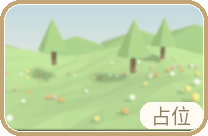
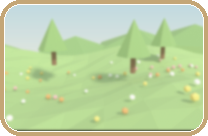
Fold small arrival turns into a held stop pose, and clear the round-6 reward clutter.
A turn under 45 degrees had no turn clip, so the island spin played on idle for about 1.5s. Hold the settled stop pose for that fold. The result chest no longer sits on its button, region rewards are not a chest, and the journey thumbnails no longer stamp 占位.

Changed region(s): [[0.6635, 0.7353, 0.9808, 0.9706]]

diff --git a/creator-build-project/assets/scripts/WorldIntegrationBoot.ts b/creator-build-project/assets/scripts/WorldIntegrationBoot.ts
@@ -42,7 +42,7 @@ class FlowReferenceStandin implements CharacterAdapter {
  private motionConfig:MotionConfig=defaultMotionConfig();private pendingIdle=false;private pendingFor=0;private yaw=new YawFollower();private yawRad=0;
  private windSource:(()=>number|null)|null=null;private wind=0;private idleFor=0;private nextGust=-1;
  private restAhead:((path:readonly (readonly number[])[])=>number|null)|null=null;private lastFoot:Body|null=null;private lastFootEmit:{bone:string;clip:string;t:number}|null=null;private footDeduped=0;private motionT=0;
- private lastSpeed=0;private stopRoot:{clip:string;end:[number,number,number];yaw:number;S:number;scale:number;forward:Array<[number,number]>;lateral:Array<[number,number]>|null}|null=null;private lastPlan:any=null;
+ private lastSpeed=0;private stopRoot:{clip:string;end:[number,number,number];yaw:number;S:number;scale:number;forward:Array<[number,number]>;lateral:Array<[number,number]>|null}|null=null;private stopHold=0;private lastPlan:any=null;
  private morphs:MorphDriver[]=[];private morphW:{[target:string]:number}={};private footListeners:Array<(e:FootEvent)=>void>=[];private apronListeners:Array<(strength:'full'|'soft',durationSec:number)=>void>=[];
  constructor(private node:Node){}
  private motionEvents:any[]=[];
@@ -73,7 +73,9 @@ class FlowReferenceStandin implements CharacterAdapter {
   this.playNamed('sit_hold',true,0);}
  private requireClip(name:string){const anim=this.anim;const clip=anim?.clips.find(c=>c?.name===name);if(!anim||!clip)throw Error('Character clip missing: '+name);if(!Number.isFinite(clip.duration)||clip.duration<=0)throw Error('Invalid character clip duration: '+name);return clip.duration;}
  /** The controller is the sole clock (Creator 3.8.8: paused/unplayed states, public setTime/sample). keep: same clip stays at its phase. */
- private playNamed(name:string,loop:boolean,fade=-1,keep=false,time=0){if(this.disposed||!this.clock)return;const d=this.requireClip(name);
+ private playNamed(name:string,loop:boolean,fade=-1,keep=false,time=0){if(this.disposed||!this.clock)return;
+  if(this.stopHold>0&&this.clock.base&&name!==this.clock.base.clip){this.stopHold=0;this.clock.releaseHold();}
+  const d=this.requireClip(name);
   if(this.clock.play(name,loop,{fade,keep,time}))this.logEvent({clip:name,duration:d,fade:fade<0?CROSSFADE_S:fade});this.render();return d;}
  private render(){if(!this.rig||!this.clock)return;const plan=this.clock.plan();this.rig.apply(plan);this.applyMorph(plan);}
  /** After the pose write: same crossfade / layer weights as the pose (CharacterMotion.morphWeights), setWeight only on change. */
@@ -111,7 +113,18 @@ class FlowReferenceStandin implements CharacterAdapter {
   *  stop clip -> idle. Runs after WALK_JOIN_GRACE_S with nothing queued, or right away when a turn follows (perform). */
  private settleFromWalk(){const c=this.clock!;this.lastSpeed=0;const tail=stopTail(this.rig!,c.cfg,c.planted());this.stopRoot=null;
   if(!tail){this.playNamed(CLIP_ROLES.idle,true,-1,true);return;}
-  if(tail.time>0)this.logEvent({kind:'stop-unplanned',clip:tail.clip,from:tail.time,plan:this.lastPlan});this.playNamed(tail.clip,false,-1,false,tail.time);}
+  if(tail.time>0)this.logEvent({kind:'stop-unplanned',clip:tail.clip,from:tail.time,plan:this.lastPlan});this.playNamed(tail.clip,false,-1,false,tail.time);
+  const left=c.base?c.base.duration-c.localTime(c.base):0;
+  // CMU stops have no static tail: hold the settled pose so the crossfade and a following small turn have something to fold into.
+  if(left<TURN_FOLD_MIN_S){this.noteTailSettle(tail.clip,tail.time);this.stopHold=TURN_FOLD_MIN_S;c.holdBase();}}
+ /** settle:* of a tail entered at the root-settle frame (CMU: the step is at 1.33 s, the root settles at 1.47 s, so the clock never crosses it). */
+ private noteTailSettle(clip:string,time:number){const m=this.clock?.meta(clip);if(!m)return;
+  for(let i=0;i<m.events.length;i++){const e=m.events[i];if((e.type==='settle'||e.name.indexOf('settle:')===0)&&e.time<=time+1e-3)this.noteSettle({def:e,clip});}}
+ /** Keep the settled stop pose (still the stop clip) for at least TURN_FOLD_MIN_S after the clip's own frames run out. */
+ private beginStopHold(){if(this.stopHold<TURN_FOLD_MIN_S)this.stopHold=TURN_FOLD_MIN_S;this.clock?.holdBase();}
+ private tickStopHold(step:number){if(!(this.stopHold>0)||!this.clock)return;const j=this.job,foldLeft=j&&j.foldS>0?j.foldS-j.elapsed:0;
+  if(foldLeft>this.stopHold)this.stopHold=foldLeft;this.stopHold-=step;if(this.stopHold>1e-4)return;this.stopHold=0;this.clock.releaseHold();
+  if(this.isStopClip(this.clock.base?.clip)){this.stopRoot=null;this.playNamed(CLIP_ROLES.idle,true,-1,true);}}
  private startsWalkStart(cur:string|undefined){return cur!==CLIP_ROLES.walk&&cur!==CLIP_ROLES.walkStart&&cur!==CLIP_ROLES.stopL&&cur!==CLIP_ROLES.stopR&&this.rig!.has(CLIP_ROLES.walkStart);}
  /** Root travel plan for this walk (CharacterMotion.planWalk): walk_start / stop forward curves inside the fixed duration. */
  private planFor(action:any,L:number):WalkPlan {const c=this.clock!,cfg=c.cfg,cur=c.base?.clip,rig=this.rig!;const wm=c.meta(CLIP_ROLES.walk);
@@ -171,13 +184,14 @@ class FlowReferenceStandin implements CharacterAdapter {
   if(ph&&ph.clip===CLIP_ROLES.walkStart){const m=c.meta(CLIP_ROLES.walkStart),d=c.base!.duration,at=m?.handoff?.at??Math.max(0,d-CROSSFADE_S);
    if(ph.time>=at-1e-9){const next=m?.handoff?.next||CLIP_ROLES.walk;this.playNamed(next,true,m?.handoff?.crossfade??-1,false,(m?.handoff?.nextTime??0)+Math.max(0,ph.time-at));if(next===CLIP_ROLES.walk&&j&&j.plan)c.setRate(j.plan.rate);}}
   // a planned stop clip may end on the walk's last frame (CMU stops: root travel until the clip end) - idle anyway
-  else if(r.ended&&(!this.job||this.job.foldS>0||this.isStopClip(r.ended))&&r.ended!==CLIP_ROLES.sitDown&&r.ended!==CLIP_ROLES.standUp){const hm=c.meta(r.ended);if(this.stopRoot&&this.stopRoot.clip===r.ended)this.stopRoot=null;this.playNamed(CLIP_ROLES.idle,true,hm&&hm.handoff&&hm.handoff.crossfade!==undefined?hm.handoff.crossfade:-1,true);}
+  else if(r.ended&&(!this.job||this.job.foldS>0||this.isStopClip(r.ended))&&r.ended!==CLIP_ROLES.sitDown&&r.ended!==CLIP_ROLES.standUp){if(this.isStopClip(r.ended))this.beginStopHold();else{const hm=c.meta(r.ended);if(this.stopRoot&&this.stopRoot.clip===r.ended)this.stopRoot=null;this.playNamed(CLIP_ROLES.idle,true,hm&&hm.handoff&&hm.handoff.crossfade!==undefined?hm.handoff.crossfade:-1,true);}}
   this.idleGustTick(step);
   this.render();
   if(j&&j.elapsed>=j.duration){const kind=j.action.kind;j.off();this.job=null;
    if(kind==='walk'){if(!j.stopEntered){this.pendingIdle=true;this.pendingFor=0;}} // keep the walk pose/phase; resolved next frame unless another walk starts (planned stop: already playing)
    else if(kind==='sit')this.playNamed(CLIP_ROLES.sitHold,true);else if(!(j.foldS>0&&this.isStopClip(c.base?.clip)))this.playNamed(CLIP_ROLES.idle,true,-1,true);
    j.resolve();}
+  this.tickStopHold(step);
  }
  private idleGustTick(step:number){const g=this.motionConfig.idleGust,c=this.clock!;if(!g||this.job||c.base?.clip!==CLIP_ROLES.idle||this.wind>0||c.gust){this.idleFor=0;return;}
   if(this.nextGust<0)this.nextGust=g.minS+Math.random()*Math.max(0,g.maxS-g.minS);this.idleFor+=step;if(this.idleFor>=this.nextGust){this.idleFor=0;this.nextGust=-1;this.apronGust(g.durationS);}}
@@ -205,8 +219,11 @@ class FlowReferenceStandin implements CharacterAdapter {
     // the walk ended without a planned stop: the stop plays before the turn (r5: it was skipped whenever a task followed)
     if(this.pendingIdle){this.pendingIdle=false;this.settleFromWalk();}
     this.lastSpeed=0;const c=this.clock!,ch=chooseTurn(this.rig!,c.cfg,extra.deltaYaw,this.lastFoot);extra.deltaYaw=ch.deltaRad;duration=1.5;
-    // < 45 deg (no turn clip) while a stop clip is still settling: folded into the stop, never turned in place on idle
-    const b=c.base,left=b&&!ch.role&&this.isStopClip(b.clip)?b.duration-c.localTime(b):0;if(left>1e-3)extra.foldS=Math.min(duration,Math.max(TURN_FOLD_MIN_S,left));
+    // < 45 deg (no turn clip): fold into the stop clip. CMU stops end with the root still moving, so the settled pose
+    // is held (stopHold) and the yaw uses that hold — never a 1.5 s turn on idle_breathing_loop.
+    const b=c.base;let left=0;if(b&&!ch.role&&this.isStopClip(b.clip)){const authored=b.duration-c.localTime(b);left=authored>this.stopHold?authored:this.stopHold;
+     if(left<TURN_FOLD_MIN_S){this.stopHold=TURN_FOLD_MIN_S;c.holdBase();left=TURN_FOLD_MIN_S;}}
+    if(left>1e-3)extra.foldS=Math.min(duration,left<TURN_FOLD_MIN_S?TURN_FOLD_MIN_S:left);
     this.logEvent({kind:'turn-choice',clip:ch.role,deg:ch.deltaRad*180/Math.PI,lastFoot:this.lastFoot,reason:extra.foldS?'folded into '+b!.clip+' over '+extra.foldS.toFixed(3)+' s':ch.reason});
     if(ch.role){this.stopRoot=null;this.playNamed(ch.role,false);}else if(!extra.foldS){this.stopRoot=null;this.playNamed(CLIP_ROLES.idle,true,-1,true);}}
    if(!Number.isFinite(duration)||duration<=0)throw Error('Invalid character action duration');}catch(error){return Promise.reject(error);}

diff --git a/creator-build-project/assets/scripts/CharacterMotion.ts b/creator-build-project/assets/scripts/CharacterMotion.ts
@@ -232,7 +232,7 @@ export function jointAngleDeg(a:Float64Array,b:Float64Array,i:number):number {co
 /* ---------------- clip clock: which clips, at what time, with which weights ---------------- */
 export interface ClipInfo {has(name:string):boolean;duration(name:string):number}
 /** rate: distance clips advance rate x ds / nativeSpeed (1 = locked to the ground; != 1 only for the stop-entry stride warp). */
-type Track={clip:string;abs:number;loop:boolean;distance:boolean;nativeSpeed:number;duration:number;endedReported:boolean;rate:number};
+type Track={clip:string;abs:number;loop:boolean;distance:boolean;nativeSpeed:number;duration:number;endedReported:boolean;rate:number;pinned:boolean};
 export type PlanLayer={clip:string;time:number;weight:number;mode:LayerMode;mask:ReadonlyArray<string>;referenceTime:number};
 /** morph: every layer the morph curves read (same clip/time/weight as `layers`, plus a curve-only apron_lift timeline when the
  *  glb has no apron_lift clip yet but anim_meta has its morph curves). */
@@ -263,9 +263,12 @@ export class MotionClock {
     this.cfg={clips,windToFlutter:cfg.windToFlutter,apronLiftThreshold:cfg.apronLiftThreshold,windMask:cfg.windMask,idleGust:cfg.idleGust,source:cfg.source,morphMesh:cfg.morphMesh,morphTargets:cfg.morphTargets,windToMorphFlutter:cfg.windToMorphFlutter,morphMeshes};}
   meta(name:string):ClipMeta|null {return this.cfg.clips[name]||null;}
   private track(name:string,loop:boolean,time:number):Track {const m=this.meta(name),d=this.info.duration(name);const ns=m&&m.nativeSpeed!==undefined?m.nativeSpeed:name===CLIP_ROLES.walk?DEFAULT_NATIVE_SPEED:0;
-    return {clip:name,abs:Math.max(0,time),loop,distance:ns>0,nativeSpeed:ns,duration:d>0?d:1,endedReported:false,rate:1};}
+    return {clip:name,abs:Math.max(0,time),loop,distance:ns>0,nativeSpeed:ns,duration:d>0?d:1,endedReported:false,rate:1,pinned:false};}
   /** Stride warp of the base distance clip (walk_loop, see STOP_WARP_MAX) or clock rate of a time clip (walk_start, START_RATE_MAX). */
   setRate(rate:number){if(this.base)this.base.rate=rate>0&&isFinite(rate)?rate:1;}
+  /** Freeze the base clip on its current frame (settled stop pose). A later tick does not advance it or fire ended again. */
+  holdBase(){const b=this.base;if(!b||b.loop)return;if(b.abs>b.duration)b.abs=b.duration;b.pinned=true;b.endedReported=true;}
+  releaseHold(){if(this.base)this.base.pinned=false;}
   /** keep=true: same clip already base -> nothing changes (phase continuity). fade<0: use crossfadeS. Returns true when switched. */
   play(name:string,loop:boolean,opts?:{fade?:number;time?:number;keep?:boolean}):boolean {const o=opts||{};
     if(o.keep!==false&&this.base&&this.base.clip===name&&this.base.loop===loop)return false;
@@ -276,7 +279,7 @@ export class MotionClock {
   /** ds: metres travelled this frame along the walk (null = not walking -> distance clips hold their phase). */
   /** snapAbs: set the base clock to exactly this absolute time (stop entry lands ON the heel strike; events crossed inclusive). */
   tick(dt:number,ds:number|null,wind:number,snapAbs?:number):TickResult {const res:TickResult={foot:[],ended:null,apronLift:null};const b=this.base;
-    if(b){const prev=b.abs;if(snapAbs!==undefined&&snapAbs>=prev)b.abs=snapAbs;else b.abs+=b.distance?(ds!==null&&ds>0?ds/b.nativeSpeed*b.rate:0):dt*b.rate;const m=this.meta(b.clip);
+    if(b){const prev=b.abs;if(!b.pinned){if(snapAbs!==undefined&&snapAbs>=prev)b.abs=snapAbs;else b.abs+=b.distance?(ds!==null&&ds>0?ds/b.nativeSpeed*b.rate:0):dt*b.rate;}const m=this.meta(b.clip);
       if(m&&m.events.length){const ev=crossedEvents(m.events,prev,b.abs,b.duration,b.loop);for(let i=0;i<ev.length;i++)res.foot.push({def:ev[i].def,cycle:ev[i].cycle,abs:ev[i].abs,clip:b.clip,duration:b.duration});}
       if(!b.loop&&b.abs>=b.duration&&!b.endedReported){b.endedReported=true;res.ended=b.clip;}}
     if(this.out){const o=this.out;o.abs+=o.distance?(ds!==null&&ds>0?ds/o.nativeSpeed*o.rate:0):dt*o.rate;this.fadeT+=dt;if(this.fadeT>=this.fadeS)this.out=null;}
@@ -313,17 +316,18 @@ export class MotionClock {
 /** Stop-clip role for the planted body foot (null when that clip does not exist). */
 export function stopRole(info:ClipInfo,planted:Body|null):string|null {if(!planted)return null;const r=planted==='L'?CLIP_ROLES.stopL:CLIP_ROLES.stopR;return info.has(r)?r:null;}
 /** Unplanned stop (the walk was not known to end at rest): a stop clip with a forward_m curve is entered at the end of its
- *  root travel (curveSettleTime), so the root does not move: no slide, no overshoot past the path end. The variant is the
- *  one whose planted body foot at that time is the walk's planted foot (the crossfade moves the free foot only).
- *  In-place stop clips (no forward curve): stopRole, from frame 0 (old behaviour). null = no stop clip -> idle.
- *  A tail shorter than CROSSFADE_S (root still travelling until the last frames, e.g. the CMU mocap stops) is not used:
- *  the clip would end inside the crossfade and hard-cut to idle, so the walk crossfades to idle instead. */
+ *  root travel (curveSettleTime), so the root does not move: no slide, no overshoot past the path end. Prefer the variant
+ *  whose planted body foot at that frame is the walk's planted foot. CMU stops plant the other foot before the root
+ *  settles and keep travelling until the last frame (tail shorter than CROSSFADE_S): still return stopRole at the settle
+ *  frame. The driver holds that pose for TURN_FOLD_MIN_S, so the crossfade has a stable target and a < 45 deg turn can
+ *  fold into the hold instead of spinning on idle. In-place stop clips (no forward curve): stopRole, from frame 0. */
 export function stopTail(info:ClipInfo,cfg:MotionConfig,planted:Body|null):{clip:string;time:number}|null {if(!planted)return null;
-  const names=[CLIP_ROLES.stopL,CLIP_ROLES.stopR];
+  const names=[CLIP_ROLES.stopL,CLIP_ROLES.stopR];let fallback:{clip:string;time:number}|null=null;
   for(let i=0;i<names.length;i++){const n=names[i];if(!info.has(n))continue;const m=cfg.clips[n],f=m&&m.root&&m.root.forward;
     if(!f){if(n===stopRole(info,planted))return {clip:n,time:0};continue;}
-    const d=info.duration(n),t=Math.min(curveSettleTime(f),d);if(d-t<CROSSFADE_S)continue;if(plantedBody(m!.events,t)===planted)return {clip:n,time:t};}
-  return null;}
+    const d=info.duration(n),t=Math.min(curveSettleTime(f),d);if(plantedBody(m!.events,t)===planted)return {clip:n,time:t};
+    if(n===stopRole(info,planted))fallback={clip:n,time:t};}
+  return fallback;}
 /** In-place turn role: |delta| >= 135 deg -> walk_turn_180; >= 45 deg -> walk_turn_90_body{L|R} by turn side (positive yaw =
  *  turning to her left -> bodyL, the inside foot pivots); otherwise / missing clip -> null (idle + controller yaw). */
 export function turnRole(info:ClipInfo,deltaRad:number):string|null {const a=Math.abs(deltaRad)*180/Math.PI;

diff --git a/creator-build-project/assets/scripts/ui/BoardPanels.ts b/creator-build-project/assets/scripts/ui/BoardPanels.ts
@@ -50,7 +50,8 @@ export interface ResultModel {
 }
 const TITLES: Record<ResultKind, [string, string]> = { win: ['过关啦', 'popup/title_4'], lose: ['差一点点', 'popup/title_5'], unsaved: ['还没存上', 'r2/title_unsaved'], readonly: ['旅途回顾', 'r2/title_review'] };
 export function openResult(stack: PopupStack, m: ResultModel, legacy: ToolArtSource | null): PopupPanel {
-  const rewardsH = m.kind === 'win' && m.rewards.length ? 200 : 0, nextH = m.kind === 'win' && !m.next ? -120 : 0;
+  const wideReward = m.kind === 'win' && m.rewards.some(r => r.label.length >= 6);
+  const rewardsH = m.kind === 'win' && m.rewards.length ? (wideReward ? 256 : 200) : 0, nextH = m.kind === 'win' && !m.next ? -120 : 0;
   const ph = m.kind === 'win' ? 808 + rewardsH + nextH : m.kind === 'lose' ? (m.chestHint ? 920 : 808) - (m.replay ? 0 : 120) : m.kind === 'unsaved' ? (m.chestHint ? 880 : 768) : 680;
   const p = stack.open({ name: 'ResultPanel', height: ph, title: TITLES[m.kind][0], titleArt: TITLES[m.kind][1] });
   const starNodes = stars(p, 184, m.kind === 'lose' ? 0 : m.stars ?? 0);
@@ -64,8 +65,8 @@ export function openResult(stack: PopupStack, m: ResultModel, legacy: ToolArtSou
     p.well(0, 472, 196, 48, [224, 238, 232], 24); p.text('成绩已保存', 0, 472, 28, 'teal', { bold: false });
     y = 600;
     if (m.rewards.length) {
-      const n = m.rewards.length, step = n === 1 ? 0 : n === 2 ? 220 : 200;
-      for (let i = 0; i < n; i++) rewardSlot(p, m.rewards[i], (i - (n - 1) / 2) * step, y, legacy);
+      const n = m.rewards.length, step = n === 1 ? 0 : n === 2 ? (wideReward ? 280 : 220) : 200;
+      for (let i = 0; i < n; i++) rewardSlot(p, m.rewards[i], (i - (n - 1) / 2) * step, y, legacy, wideReward);
       y += rewardsH;
     }
     if (m.next) { p.button('primary', '下一关', 0, y - 24, 480, 104, m.next, { fontSize: 36, name: 'Next' }); p.button('secondary', '回小岛', 0, y + 96, 320, 88, m.home, { icon: 'popup/icon_home', fontSize: 30, name: 'Home', sound: 'back' }); }
@@ -96,12 +97,13 @@ function chestLine(p: PopupPanel, y: number, text: string) {
   const s = p.sprite('popup/chest_closed', -150, y, 144, undefined, 'half'); s.grayscale = true; p.tint.setBase(s, [255, 255, 255], 153);
   p.text(text, -60, y, 28, 'brown2', { align: 'left', width: 320, bold: false });
 }
-function rewardSlot(p: PopupPanel, r: ResultReward, x: number, y: number, legacy: ToolArtSource | null) {
-  if (r.iconKind === 'tool' && r.tool) toolArt(p, r.tool, x, y - 20, 120, legacy);
-  else { const s = p.sprite(r.icon, x, y - 20, r.iconKind === 'seal' ? undefined : 150, r.iconKind === 'seal' ? 112 : undefined, r.iconKind === 'chest' ? 'half' : 'ui'); if (r.state === 'locked') s.grayscale = true; }
-  if (r.state === 'claimed') { p.sprite('popup/stamp_claimed', x + 40, y - 40, 112, 112).node.setRotationFromEuler(0, 0, 12); p.text(r.label, x, y + 76, 24, 'brown2', { bold: false, width: 200 }); }
-  else if (r.state === 'ready' && r.claim) p.button('secondary', r.label, x, y + 76, 176, 64, r.claim, { fontSize: 26, name: 'Claim-' + r.id });
-  else p.text(r.label, x, y + 76, 24, 'grey', { bold: false, width: 200 });
+function rewardSlot(p: PopupPanel, r: ResultReward, x: number, y: number, legacy: ToolArtSource | null, wide = false) {
+  if (r.iconKind === 'tool' && r.tool) toolArt(p, r.tool, x, y - 36, 120, legacy);
+  else { const s = p.sprite(r.icon, x, y - 36, r.iconKind === 'seal' ? undefined : 150, r.iconKind === 'seal' ? 112 : undefined, r.iconKind === 'chest' ? 'half' : 'ui'); if (r.state === 'locked') s.grayscale = true; }
+  const by = y + 112, bw = wide && r.label.length >= 6 ? 248 : 176;
+  if (r.state === 'claimed') { p.sprite('popup/stamp_claimed', x + 40, y - 56, 112, 112).node.setRotationFromEuler(0, 0, 12); p.text(r.label, x, by, 24, 'brown2', { bold: false, width: bw }); }
+  else if (r.state === 'ready' && r.claim) p.button('secondary', r.label, x, by, bw, 64, r.claim, { fontSize: r.label.length >= 6 ? 24 : 26, name: 'Claim-' + r.id });
+  else p.text(r.label, x, by, 24, 'grey', { bold: false, width: bw });
 }
 /** Three stars, middle one larger; empty stars dimmed (alpha 0.75). Chest and stars take the half night tint. */
 function stars(p: PopupPanel, cy: number, filled: number): Node[] {

diff --git a/creator-build-project/assets/scripts/ManagedMobileBoardUI.ts b/creator-build-project/assets/scripts/ManagedMobileBoardUI.ts
@@ -523,7 +523,9 @@ export class ManagedMobileBoardUI extends Component {
     if (memento) { const r = a?.region || 'tide'; items.push({ kind: 'seal', count: 0, label: ({ tide: '潮汐', meadow: '草甸', sky: '天空城' } as any)[r] + '印记', seal: 'popup/reward_seal_' + r }); }
     if (!items.length) items.push({ kind: 'seal', count: 0, label: '一份海风的礼物', seal: 'popup/star_full' });
     const gained = items.map(i => i.kind);
-    openReward(this.popups, items, this.toolArt, { chest: chest || !memento, description: memento ? '地区印记收进旅程册了。' : '海风吹开了宝箱，收进行囊吧。', done: () => { for (const k of gained) if (INTRO_TEXT[k] && !hasSeenTool(SEEN_ID[k] || k) && this.introQueue.indexOf(k) < 0) this.introQueue.push(k); this.flushIntro(); } });
+    const behind = this.popups.find('ResultPanel'); if (behind) behind.root.active = false;
+    const desc = memento ? '地区印记收进旅程册了。' : region && !chest ? '收进旅人的行囊了。' : '海风吹开了宝箱，收进行囊吧。';
+    openReward(this.popups, items, this.toolArt, { chest: !!chest, description: desc, done: () => { if (behind && behind.alive) behind.root.active = true; for (const k of gained) if (INTRO_TEXT[k] && !hasSeenTool(SEEN_ID[k] || k) && this.introQueue.indexOf(k) < 0) this.introQueue.push(k); this.flushIntro(); } });
   }
   private flushIntro() { if (!this.introQueue.length || this.modalOpen()) return; const kind = this.introQueue.shift()!; if (!hasSeenTool(SEEN_ID[kind] || kind)) openToolIntro(this.popups, kind, () => this.flushIntro()); else this.flushIntro(); }
   onDestroy() {

diff --git a/creator-build-project/assets/scripts/audio/AudioBridge.ts b/creator-build-project/assets/scripts/audio/AudioBridge.ts
@@ -80,8 +80,11 @@ export class AudioBridge extends Component {
     // 3) one-time rewards: a claim flag flipping false->true while this board is open
     const sig = this.rewardSignature(s);
     if (sig !== null) {
-      if (this.rewardBaseline !== null && sig !== this.rewardBaseline && this.countClaims(sig) > this.countClaims(this.rewardBaseline))
-        audio.onClaimResult({ ok: true, duplicate: false });
+      if (this.rewardBaseline !== null && sig !== this.rewardBaseline && this.countClaims(sig) > this.countClaims(this.rewardBaseline)) {
+        const prev = this.rewardBaseline.split('|'), next = sig.split('|');
+        // Region-tool claims are not a chest. Chest opens and mementos still use sfx_chest_open.
+        if (prev[0] !== next[0] || prev[2] !== next[2] || prev[3] !== next[3]) audio.onClaimResult({ ok: true, duplicate: false });
+      }
       this.rewardBaseline = sig;
     }
   }

diff --git a/creator-build-project/assets/scripts/ui/CommonPanels.ts b/creator-build-project/assets/scripts/ui/CommonPanels.ts
@@ -191,7 +191,7 @@ export function openReward(stack: PopupStack, items: RewardItem[], legacy: ToolA
     chest.node.active = false;
     void chest.load().then(ok => { if (!ok || !chest || !isValid(chest.node, true)) return; chest.node.active = true; if (fallback && isValid(fallback.node, true)) fallback.node.active = false; chest.open(!reducedMotion()); });
   }
-  const n = Math.min(3, items.length), xs = n === 1 ? [0] : n === 2 ? [-110, 110] : [-180, 0, 180], ys = n === 3 ? [118, 84, 118] : [100, 100];
+  const n = Math.min(3, items.length), xs = n === 1 ? [0] : n === 2 ? [-110, 110] : [-180, 0, 180], ys = n === 3 ? [220, 186, 220] : [200, 200];
   const itemNodes: Node[] = [];
   for (let i = 0; i < n; i++) {
     const it = items[i], holder = uiNode('Gain-' + it.kind, p.body, 140, 140); itemNodes.push(holder);

diff --git a/art-src/board-ui/c-popups/src/round2/compose2.py b/art-src/board-ui/c-popups/src/round2/compose2.py
@@ -130,9 +130,7 @@ def region_window(rid,w,h,lock=False,placeholder=False):
     im=im.convert('RGBA'); m=Image.new('L',(w,h),0); ImageDraw.Draw(m).rounded_rectangle((0,0,w-1,h-1),radius=16,fill=255); im.putalpha(m)
     o=Image.new('RGBA',(w+8,h+8),(0,0,0,0)); od=ImageDraw.Draw(o); od.rounded_rectangle((0,0,w+7,h+7),radius=20,fill=(196,166,118,255) if not lock else (198,190,176,255))
     o.alpha_composite(im,(4,4)); od=ImageDraw.Draw(o); od.rounded_rectangle((4,4,w+3,h+3),radius=16,outline=(255,250,236,90),width=1)
-    if placeholder:
-        f=font(20,False); tw=od.textlength('占位',font=f)
-        od.rounded_rectangle((w-tw-20,h-26,w+2,h+0),radius=11,fill=(255,250,238,200)); od.text((w-tw/2-9,h-13),'占位',font=f,fill=(140,124,100),anchor='mm')
+    # placeholder marks the source as stand-in art. Do not stamp 「占位」 on the picture: players see the journey book.
     return o
 CHAPTERS=[('tide','潮汐小径','reward_seal_tide',10,1,False,False),('meadow','花粉草甸','reward_seal_meadow',3,0,False,True),('sky','天空回声','reward_seal_sky',0,0,True,True)]
 def journey():

diff --git a/art-src/board-ui/c-popups/src/round2/compose_lite.py b/art-src/board-ui/c-popups/src/round2/compose_lite.py
@@ -82,9 +82,7 @@ def region_window(rid,w,h,lock=False,placeholder=False):
     # 窗沿：一圈 3 px 浅木线 + 内侧 1 px 高光，像嵌进路牌里
     o=Image.new('RGBA',(w+8,h+8),(0,0,0,0)); od=ImageDraw.Draw(o); od.rounded_rectangle((0,0,w+7,h+7),radius=20,fill=(196,166,118,255) if not lock else (198,190,176,255))
     o.alpha_composite(im,(4,4)); od=ImageDraw.Draw(o); od.rounded_rectangle((4,4,w+3,h+3),radius=16,outline=(255,250,236,90),width=1)
-    if placeholder:
-        f=font(20,False); tw=od.textlength('占位',font=f)
-        od.rounded_rectangle((w-tw-20,h-26,w+2,h+0),radius=11,fill=(255,250,238,200)); od.text((w-tw/2-9,h-13),'占位',font=f,fill=(140,124,100),anchor='mm')
+    # placeholder marks the source as stand-in art. Do not stamp 「占位」 on the picture: players see the journey book.
     return o
 
 def journey_lite():

diff --git a/docs/walk-driver.md b/docs/walk-driver.md
@@ -246,7 +246,7 @@ WALK_FLOW_ROOT=<运镜bot-wind 检出> node tools/walk-driver/test_walk_driver.c
 **每次停顿前都先停步（r5 #5）。** 走路后面接转身、开门、坐下时，先把停步走完再做下一件事：
 - 规划好的停步（9.3）在走路最后一段就播完了。
 - 没规划上（`stop-unplanned` 事件）：`stopTail` 从停步片段的 settle 时刻（`forward_m` 不再变的时刻，约 0.667 s）切进去，用落地脚相同的那个变体，根节点不动（不滑、不冲过头），然后 idle。
-- 转角 < 45° 不在 idle 上原地转：合进正在播的停步片段里（`turn-choice` 的 reason = `folded into <clip> over X s`），yaw 用 smoothstep 在停步剩下的时间里转完（至少 `TURN_FOLD_MIN_S = 0.5 s`）。岛上到达后约 −25.7° 的那次就是这样。
+- 转角 < 45° 不在 idle 上原地转：合进正在播的停步片段里（`turn-choice` 的 reason = `folded into <clip> over X s`），yaw 用 smoothstep 在停步剩下的时间里转完（至少 `TURN_FOLD_MIN_S = 0.5 s`）。岛上到达后约 −25.7° 的那次就是这样。CMU 停步的根节点一直走到最后一帧、没有静止尾巴时，驱动把坐稳那一帧再保持 `TURN_FOLD_MIN_S`（诊断里的片段名仍是停步），小角度转身合进这段保持，然后才切 idle。
 
 ### 9.3 一次走路的根节点轨迹（`planWalk`，时长不变）
 
@@ -257,7 +257,7 @@ WALK_FLOW_ROOT=<运镜bot-wind 检出> node tools/walk-driver/test_walk_driver.c
 - **起步可以稍微快一点。** 起步时间放不下时（`outCrossing` 1.987 m / 2.839 s 从静止起步），`walk_start` 按 `START_RATE_STEP = 0.05` 一档档加快，最多 `START_RATE_MAX = 1.2`：片段时钟和根节点曲线一起乘这个倍率（`forward_m(t × rate)`），脚仍然锁地。`outCrossing` 用 ×1.1。倍率在 `walkPlan.startRate`，notes 里写 `walk_start x1.10 (at rate 1: …)`。
 - **停步也可以稍微快一点。** CMU 停步 1.47 s 只走 0.42–0.50 m，`toDoor`（4.20 m / 6.00 s）原速放不下。停步同样按 `START_RATE_STEP` 加快，最多 `STOP_RATE_MAX = 1.2`（`forward_m((t − tEntry) × rate)`），只用于停在路线终点（`aheadM` 为 0）的走路；先选两个倍率里较大的那个最小的组合。倍率在 `walkPlan.stop.rate` / `lastPlan.stopRate`，notes 里写 `stop xN`。
 - **停步的 lateral_m 只在路线上走、不带偏终点。** CMU 停步的 `lateral_m` 中途摆到约 ±0.1 m，结束时还留 14–21 mm。驱动用 `stopLateralAt` 让横向偏移跟着 `forward_m` 的进度把末值淡掉，所以停步结束时根节点正好在路线终点；朝向从路线上的点往前看（不是从偏开的根节点），否则停步中她会朝终点拧身、着地脚跟着转。
-- CMU 停步的根节点曲线一直走到片段最后一帧，停步片段播完就交给 idle（不必等走路的最后一帧再发 ended）。
+- CMU 停步的根节点曲线一直走到片段最后一帧。片段自己的帧播完后，坐稳姿势再保持 `TURN_FOLD_MIN_S`（0.5 s），给小于 45° 的转身合进去；保持结束才交给 idle。不必等走路的最后一帧再发 ended。
 - 还不行，或者巡航速度会超出 `CRUISE_RATIO_MIN..MAX = 0.75..1.3 × native`（步频变化超过 ±25–30% 太明显），先放弃停步，再放弃起步，最后退回旧的匀速 L·t/D。原因写在 `motion.walkPlan.notes`。
 - 规划失败但这段确实停了（`stop-unplanned` 事件）：从停步片段的 settle 时刻切进去（见 9.2），根节点不动。以前是 walk_loop → idle 淡化，会滑 6–13 cm。
 - 诊断：`__worldIntegration.motion().walkPlan = {L, D, rest, aheadM, start, stop, warp, stopScale, cruiseMps, notes}`；`stopRoot`（停步结束后 lateral 那一步）；`lastFoot`、`footDeduped`。
